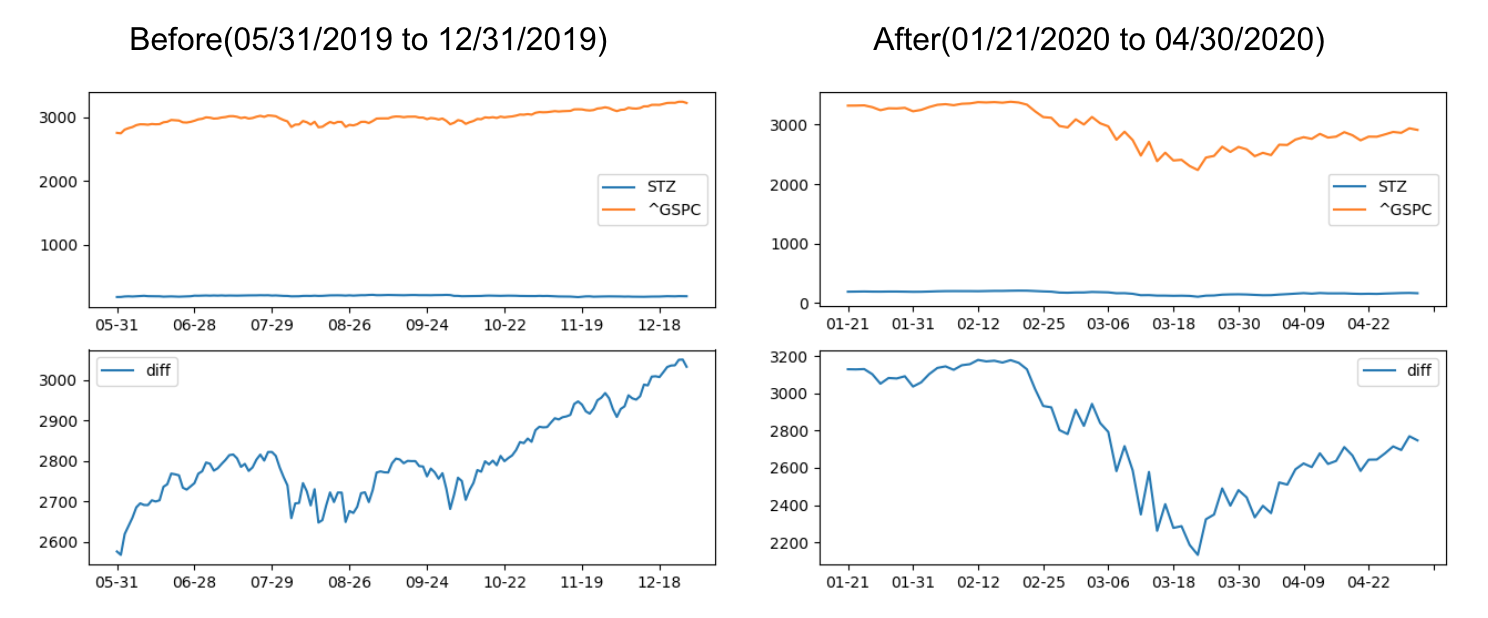
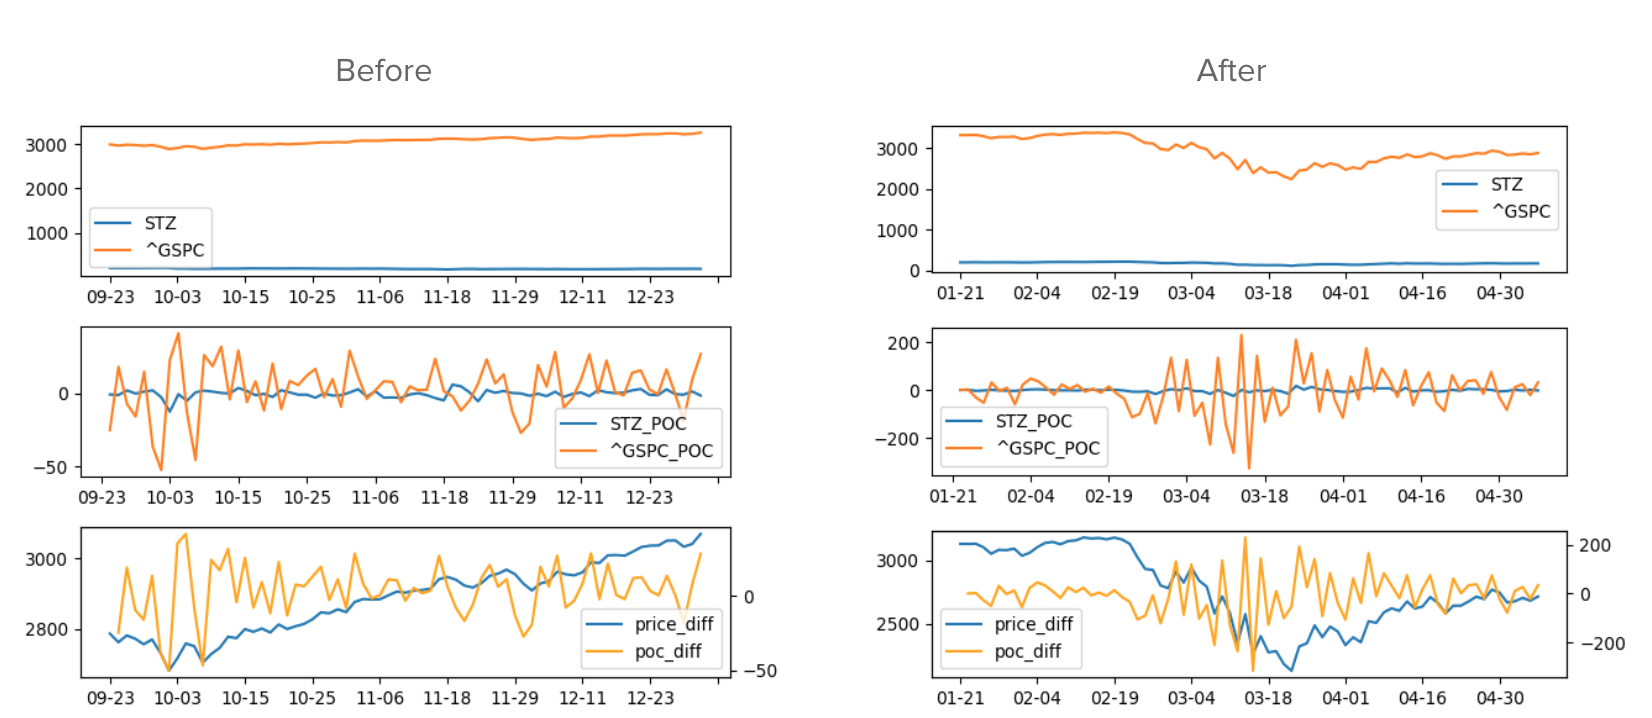
revised on Sat.

diff --git a/stock_corona.py b/stock_corona.py
@@ -10,13 +10,14 @@ def getstock(abbr, write_csv, time):
     """
     This function can retrieve a csv containing stock prices of a single company
     from yahoo finance https://finance.yahoo.com/
-    and return a cleaned dataframe which contains only date and close price
+    and return a cleaned dataframe which contains date, close price and percent of change
 
     :param abbr: abbreviation of company stock name
         abbreviation related to this project:
             ^GSPC for S&P 500
-            BUD for Anheuser-Busch InBev SA/NV
+            BUD for Anheuser-Busch InBev SA/NV.
             STZ for Constellation Brands, Inc.
+            TAP for Molson Coors Beverage Company.
     :param write_csv: users can indicate if they want to download the complete .csv to local
                       the file will be named as the stock abbreviation
     :param time: before refers to stock price before the spread of COVID-19(05-31-2019 to 12-31-2019)
@@ -24,37 +25,32 @@ def getstock(abbr, write_csv, time):
     :return: dataframe contains date(MM-DD) and close price of the day(named with stock abbr)
 
     >>> getstock('STZ', False, 'before') # doctest: +ELLIPSIS +NORMALIZE_WHITESPACE
-          date         STZ   STZ_POC
-    0    05-31  176.449997       NaN
-    1    06-03  177.229996  0.779999
-    2    06-04  184.440002  7.210006
+         date         STZ   STZ_POC
+    0   09-23  205.770004       NaN
+    1   09-24  205.039993 -0.730011
+    2   09-25  204.000000 -1.039993
     ...
-    146  12-27  189.229996 -0.430008
-    147  12-30  188.369995 -0.860001
-
-    [148 rows x 3 columns]
+    69  12-31  189.750000  1.380005
+    70  01-02  188.300003 -1.449997
+    [71 rows x 3 columns]
 
     >>> getstock('STZ', False, 'after') # doctest: +ELLIPSIS +NORMALIZE_WHITESPACE
          date         STZ   STZ_POC
     0   01-21  190.229996       NaN
     1   01-22  191.940002  1.710006
     2   01-23  193.970001  2.029999
+    3   01-24  191.559998 -2.410003
+    4   01-27  190.899994 -0.660004
     ...
-    69  04-29  169.419998  1.990005
-    70  04-30  164.690002 -4.729996
-
-    [71 rows x 3 columns]
 
     >>> getstock('BUD', False, 'after') # doctest: +ELLIPSIS +NORMALIZE_WHITESPACE
          date        BUD   BUD_POC
     0   01-21  78.809998       NaN
     1   01-22  78.110001 -0.699997
     2   01-23  78.260002  0.150001
+    3   01-24  77.739998 -0.520004
+    4   01-27  75.580002 -2.159996
     ...
-    69  04-29  48.660000  1.810002
-    70  04-30  46.520000 -2.140000
-
-    [71 rows x 3 columns]
     """
     abbr = abbr.upper()
     output_filename = abbr+'.csv'
@@ -64,7 +60,7 @@ def getstock(abbr, write_csv, time):
           '?period1=1569024000&period2=1578009600&interval=1d&events=history'
     else:
         url = 'https://query1.finance.yahoo.com/v7/finance/download/' + abbr + \
-          '?period1=1579564800&period2=1588283265&interval=1d&events=history'
+          '?period1=1579564800&period2=1588896000&interval=1d&events=history'
     #  read the url into dataframe
     df = pd.read_csv(url)
     #  trim the year in Date column
@@ -90,12 +86,12 @@ def getCOVID(area_name, write_csv):
     :return: dataframe contains date, cumulative cases and new confirmed cases
 
     >>> getCOVID('us', False) # doctest: +ELLIPSIS +NORMALIZE_WHITESPACE
-          date    cases    new
-    0    01-21        1      1
-    1    01-22        1      0
-    2    01-23        1      0
-    3    01-24        2      1
-    4    01-25        3      1
+          date  cumulative    new
+    0    01-21           1      1
+    1    01-22           1      0
+    2    01-23           1      0
+    3    01-24           2      1
+    4    01-25           3      1
     ...
     """
     if area_name.lower() == 'us':  # url for us data
@@ -126,7 +122,8 @@ def getCOVID(area_name, write_csv):
 
 def stock_covid(stz, compare, covid):
     """
-    This function takes two stock dataframe to calculate the difference between daily stock prices,
+    This function takes two stock dataframe to calculate the difference between daily stock prices
+    and percent of change of two companies,
     the difference refers to 'how much stz is lower than the other company'.
     Then merged it with the covid dataframe by left join since stock market does not open during weekend
     and we are only keeping covid number for weekdays.
@@ -134,21 +131,19 @@ def stock_covid(stz, compare, covid):
     :param stz: since the project focuses on Corona Beer, its company STZ should always be one input
     :param compare: the other stock price data that users interested in
     :param covid: covid-19 data of the selected area
-    :return: a merged dataset with date, two stock prices, differences, covid confirmed and new cases
+    :return: a merged dataset with date, two stock prices, differences, covid cumulative and new cases
 
     >>> stz = getstock('STZ', False, 'after')
     >>> bud = getstock('BUD', False, 'after')
     >>> us = getCOVID('us', False)
     >>> stock_covid(stz, bud, us)# doctest: +ELLIPSIS +NORMALIZE_WHITESPACE
-         date         STZ   STZ_POC        BUD   BUD_POC      diff    cases    new
-    0   01-21  190.229996       NaN  78.809998       NaN       NaN        1      1
-    1   01-22  191.940002  1.710006  78.110001 -0.699997 -2.410003        1      0
-    2   01-23  193.970001  2.029999  78.260002  0.150001 -1.879998        1      0
-    3   01-24  191.559998 -2.410003  77.739998 -0.520004  1.889999        2      1
-    4   01-27  190.899994 -0.660004  75.580002 -2.159996 -1.499992        5      0
+         date         STZ   STZ_POC  ...  poc_diff  cumulative    new
+    0   01-21  190.229996       NaN  ...       NaN           1      1
+    1   01-22  191.940002  1.710006  ... -2.410003           1      0
+    2   01-23  193.970001  2.029999  ... -1.879998           1      0
+    3   01-24  191.559998 -2.410003  ...  1.889999           2      1
+    4   01-27  190.899994 -0.660004  ... -1.499992           5      0
     ...
-
-    [71 rows x 8 columns]
     """
     output = stz.merge(compare, on='date', how='left')
     output['price_diff'] = output[output.columns[3]] - output[output.columns[1]]
@@ -162,7 +157,9 @@ def plot_stock(df):
     This function can plot the stock prices of two different companies and the difference between them
 
     :param df: the dataframe containing stock prices of two companies
-    :return: two graph including a price graph and a difference graph
+    :return: One graph of prices;
+             one graph of percent of change;
+             one graph of differences(price and percent of change).
     """
     fig,ax = plt.subplots(3)
     stz, = ax[0].plot(df['date'],df[df.columns[1]])
@@ -181,7 +178,7 @@ def plot_stock(df):
     ax2 = ax[2].twinx()
     diffC, = ax2.plot(df['date'], df['poc_diff'], color='orange')
     ax[2].xaxis.set_major_locator(plt.MaxNLocator(10))
-    ax2.legend((diffC, diffP),('price_diff', 'poc_diff'))
+    ax2.legend((diffP, diffC),('price_diff', 'poc_diff'))
     plt.show()
 
 
@@ -193,7 +190,8 @@ def plot_covid(df, covid):
     :param df: the dataframe containing stock and covid info
     :param covid: cases refers to cumulative confirmed cases
                 new refers to new confirmed cases on that day
-    :return: a single line graph with two lines
+    :return: One graph of price difference vs. covid situation;
+             one graph of percentage of change vs. covid situation.
     """
     fig,ax=plt.subplots(2)
     stockP, = ax[0].plot(df['date'], df['price_diff'])
@@ -218,7 +216,6 @@ if __name__ == '__main__':
     BUD_stock_after = stock_covid(getstock('STZ', False, 'after'), getstock('BUD', False, 'after'), us_covid)
     TAP_stock_before = stock_covid(getstock('STZ', False, 'before'), getstock('TAP', False, 'before'), us_covid)
     TAP_stock_after = stock_covid(getstock('STZ', False, 'after'), getstock('TAP', False, 'after'), us_covid)
-    print(BUD_stock_after)
     #  plot stock price differences before and after COVID-19
     plot_stock(BUD_stock_before)
     plot_stock(TAP_stock_before)
@@ -241,3 +238,4 @@ if __name__ == '__main__':
     TAP_stock_IL = stock_covid(getstock('STZ', False, 'after'), getstock('TAP', False, 'after'), illinois_covid)
     plot_covid(BUD_stock_IL, 'new')
     plot_covid(TAP_stock_IL, 'new')
+

diff --git a/README.md b/README.md
@@ -12,7 +12,7 @@ some people connect it with Corona Beer and refuse to buy any Corona Beer under 
 
 **Hypothesis:**
 
-* The spread of COVID-19 will negatively influence the stock price of Constellation.
+* The spread of COVID-19 is negatively correlated to the stock price of Constellation.
 * The influence of coronavirus on Corona Beer stock price will gradually disappear as coronavirus continues.
 
 **Datasets:**
@@ -22,7 +22,7 @@ some people connect it with Corona Beer and refuse to buy any Corona Beer under 
 
 ## Methodology and Result
 The program can retrieve up-to-date stock prices and [COVID-19 data](https://github.com/nytimes/covid-19-data) online and merge them together 
-to visualize stock prices and the spread of COVID-19.
+to visualize stock prices and the spread of COVID-19. 
 
 Users can run the code directly to get following comparisons:
 * Stock prices of [Corona(STZ)](https://finance.yahoo.com/quote/STZ?p=STZ&.tsrc=fin-srch)
@@ -49,9 +49,9 @@ A slide containing detailed code structure and result graphs can be downloaded [
 
 ## Conclusion:
 
-* The spread of COVID-19 did negatively impacted the stock price of Corona Beer compared with other beer companies, 
+* The spread of COVID-19 did did have a negative correlation with the stock price of Corona Beer compared with other beer companies, 
 especially from 3/06 to 3/18.
-* The effect of COVID-19 is decreasing after 3/18.
+* The strength of this correlation is decreasing after 3/18.
 
 * There might be a positive relationship between COVID-19 and the stock price of Corona Beer compared with S&P 500 number.
 
